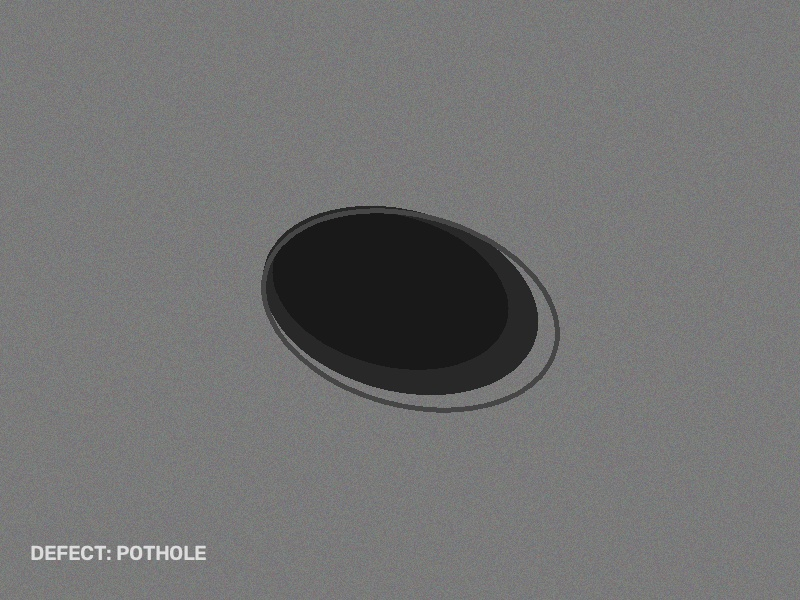
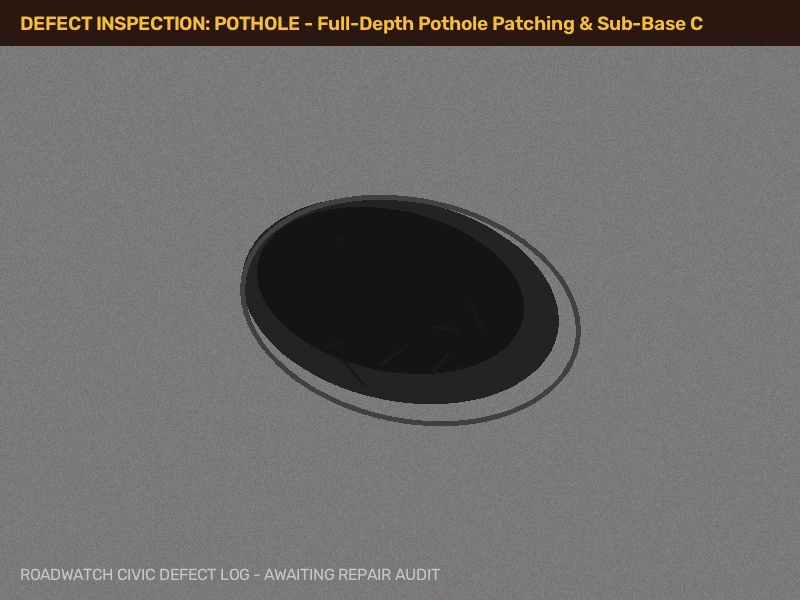
feat: seed realistic contractor repair completions for PWD Officer verification

diff --git a/backend/seed_repairs_for_verification.py b/backend/seed_repairs_for_verification.py
@@ -1,0 +1,391 @@
+"""
+Seed Repairs for Officer Verification
+Seeds high-quality contractor repair completions awaiting official P.W.D. Officer verification.
+"""
+import os
+import sys
+from pathlib import Path
+from datetime import datetime, timedelta
+import numpy as np
+import cv2
+
+# Set up Django environment
+sys.path.insert(0, str(Path(__file__).resolve().parent))
+os.environ.setdefault("DJANGO_SETTINGS_MODULE", "roadwatch.settings")
+
+import django
+django.setup()
+
+from django.conf import settings
+from apps.core.db import (
+    complaints_col, maintenance_tasks_col, repair_evidence_col,
+    status_history_col, users_col, organizations_col, roads_col,
+    jurisdictions_col, complaint_images_col, parse_object_id
+)
+from apps.ai_service.priority_engine import calculate_priority_score
+
+
+def generate_defect_image(filename: str, defect_type: str, title: str) -> str:
+    """Generates an image of a road defect."""
+    width, height = 800, 600
+    img = np.random.randint(110, 135, (height, width, 3), dtype=np.uint8)
+
+    folder_path = Path(settings.MEDIA_ROOT) / "complaints" / "seed"
+    folder_path.mkdir(parents=True, exist_ok=True)
+    target_path = folder_path / filename
+
+    if defect_type == "POTHOLE":
+        # Dark deep pothole cavity
+        cv2.ellipse(img, (400, 300), (160, 100), 12, 0, 360, (35, 35, 35), -1)
+        cv2.ellipse(img, (390, 290), (135, 80), 12, 0, 360, (20, 20, 20), -1)
+        cv2.ellipse(img, (410, 310), (170, 110), 12, 0, 360, (65, 65, 65), 3)
+        # Cracked debris around perimeter
+        for _ in range(8):
+            x1 = np.random.randint(300, 500)
+            y1 = np.random.randint(220, 380)
+            cv2.line(img, (x1, y1), (x1 + np.random.randint(-30, 30), y1 + np.random.randint(-30, 30)), (25, 25, 25), 2)
+    elif defect_type == "SUBSIDENCE":
+        # Sinking depression trench
+        cv2.ellipse(img, (400, 320), (280, 70), -5, 0, 360, (50, 50, 50), -1)
+        cv2.ellipse(img, (400, 320), (250, 50), -5, 0, 360, (30, 30, 30), -1)
+        cv2.line(img, (120, 310), (680, 310), (25, 25, 25), 4)
+    elif defect_type == "ALLIGATOR_CRACK":
+        # Heavy fatigue alligator cracks
+        for _ in range(35):
+            x1, y1 = np.random.randint(180, 620), np.random.randint(150, 450)
+            x2, y2 = x1 + np.random.randint(-50, 50), y1 + np.random.randint(-50, 50)
+            cv2.line(img, (x1, y1), (x2, y2), (28, 28, 28), 3)
+            # Connecting spiderweb lines
+            cv2.line(img, (x2, y2), (x2 + np.random.randint(-30, 30), y2 + np.random.randint(-30, 30)), (35, 35, 35), 2)
+    else:  # MANHOLE_DEFECT
+        # Sunken manhole rim
+        cv2.circle(img, (400, 300), 110, (40, 40, 40), -1)
+        cv2.circle(img, (400, 300), 95, (25, 25, 25), -1)
+        cv2.circle(img, (400, 300), 115, (75, 75, 75), 4)
+        # Manhole grate ribs
+        for angle in range(0, 180, 30):
+            rad = np.deg2rad(angle)
+            dx = int(80 * np.cos(rad))
+            dy = int(80 * np.sin(rad))
+            cv2.line(img, (400 - dx, 300 - dy), (400 + dx, 300 + dy), (55, 55, 55), 3)
+
+    # Defect badge header
+    cv2.rectangle(img, (0, 0), (800, 45), (15, 23, 42), -1)
+    cv2.putText(img, f"DEFECT INSPECTION: {defect_type} - {title[:40]}", (20, 30), cv2.FONT_HERSHEY_SIMPLEX, 0.65, (56, 189, 248), 2)
+    cv2.putText(img, "ROADWATCH CIVIC DEFECT LOG - AWAITING REPAIR AUDIT", (20, 580), cv2.FONT_HERSHEY_SIMPLEX, 0.55, (200, 200, 200), 1)
+
+    cv2.imwrite(str(target_path), img)
+    return f"complaints/seed/{filename}"
+
+
+def generate_repair_image(filename: str, defect_type: str, title: str) -> str:
+    """Generates an image of a completed road repair with fresh asphalt patch and compaction markings."""
+    width, height = 800, 600
+    img = np.random.randint(110, 135, (height, width, 3), dtype=np.uint8)
+
+    folder_path = Path(settings.MEDIA_ROOT) / "evidence" / "seed"
+    folder_path.mkdir(parents=True, exist_ok=True)
+    target_path = folder_path / filename
+
+    if defect_type == "POTHOLE":
+        # Fresh dark asphalt patch with clean saw-cut rectangular perimeter
+        cv2.rectangle(img, (220, 170), (580, 430), (45, 45, 45), -1)
+        # Sealant perimeter line
+        cv2.rectangle(img, (218, 168), (582, 432), (20, 20, 20), 3)
+        # Roller compaction marks
+        cv2.line(img, (240, 230), (560, 230), (52, 52, 52), 2)
+        cv2.line(img, (240, 300), (560, 300), (52, 52, 52), 2)
+        cv2.line(img, (240, 370), (560, 370), (52, 52, 52), 2)
+    elif defect_type == "SUBSIDENCE":
+        # Full-width highway asphalt overlay strip
+        cv2.rectangle(img, (60, 220), (740, 420), (42, 42, 42), -1)
+        cv2.rectangle(img, (58, 218), (742, 422), (18, 18, 18), 3)
+        # Center lane line re-applied
+        cv2.line(img, (200, 320), (280, 320), (255, 255, 255), 5)
+        cv2.line(img, (360, 320), (440, 320), (255, 255, 255), 5)
+        cv2.line(img, (520, 320), (600, 320), (255, 255, 255), 5)
+    elif defect_type == "ALLIGATOR_CRACK":
+        # Smooth resurfaced wearing course
+        cv2.rectangle(img, (120, 130), (680, 470), (46, 46, 46), -1)
+        cv2.rectangle(img, (118, 128), (682, 472), (22, 22, 22), 3)
+        # Fresh asphalt aggregate texture
+        for _ in range(80):
+            rx, ry = np.random.randint(140, 660), np.random.randint(150, 450)
+            cv2.circle(img, (rx, ry), 1, (65, 65, 65), -1)
+    else:  # MANHOLE_DEFECT
+        # Raised elevated manhole with clean circular concrete collar and flush asphalt ring
+        cv2.circle(img, (400, 300), 140, (48, 48, 48), -1)
+        cv2.circle(img, (400, 300), 125, (160, 160, 165), 8)  # Concrete collar
+        cv2.circle(img, (400, 300), 110, (30, 30, 30), -1)
+        cv2.circle(img, (400, 300), 95, (22, 22, 22), -1)
+        cv2.circle(img, (400, 300), 112, (15, 15, 15), 3)
+
+    # Completed repair badge header
+    cv2.rectangle(img, (0, 0), (800, 45), (6, 78, 59), -1)
+    cv2.putText(img, f"COMPLETED REPAIR: {defect_type} - {title[:40]}", (20, 30), cv2.FONT_HERSHEY_SIMPLEX, 0.65, (167, 243, 208), 2)
+    cv2.putText(img, "ROADWATCH OFFICIAL CONTRACTOR EVIDENCE - PENDING OFFICER VERIFICATION", (20, 580), cv2.FONT_HERSHEY_SIMPLEX, 0.55, (220, 255, 220), 1)
+
+    cv2.imwrite(str(target_path), img)
+    return f"evidence/seed/{filename}"
+
+
+def seed_repairs():
+    print("Seeding Repairs for Officer Verification...")
+    now = datetime.utcnow()
+
+    # Lookups
+    officer = users_col().find_one({"role": "AUTHORITY_OFFICER"})
+    if not officer:
+        print("Officer user not found. Please ensure users are seeded.")
+        return
+    officer_id = str(officer["_id"])
+    officer_name = officer.get("name", "Rajesh Kumar (P.W.D. Officer)")
+
+    contractor_user = users_col().find_one({"role": "CONTRACTOR_MANAGER"})
+    contractor_user_id = str(contractor_user["_id"]) if contractor_user else officer_id
+
+    citizen_user = users_col().find_one({"role": "CITIZEN"})
+    citizen_user_id = str(citizen_user["_id"]) if citizen_user else officer_id
+
+    contractor_org = organizations_col().find_one({"type": "CONTRACTOR"})
+    contractor_org_id = str(contractor_org["_id"]) if contractor_org else "CONTRACTOR_ORG_001"
+    contractor_name = contractor_org.get("name", "Apex Infra Roads & Civils Ltd.") if contractor_org else "Apex Infra Roads & Civils Ltd."
+
+    jurisdiction = jurisdictions_col().find_one({})
+    jurisdiction_id = str(jurisdiction["_id"]) if jurisdiction else "JURISDICTION_001"
+
+    roads = list(roads_col().find({}))
+    r1_id = str(roads[0]["_id"]) if len(roads) > 0 else "ROAD_001"
+    r2_id = str(roads[1]["_id"]) if len(roads) > 1 else r1_id
+    r3_id = str(roads[2]["_id"]) if len(roads) > 2 else r1_id
+
+    repairs_data = [
+        {
+            "task_ref": "WO-2026-A94101",
+            "complaint_ref": "RW-2026-100214",
+            "title": "Full-Depth Pothole Patching & Sub-Base Compaction",
+            "defect_type": "POTHOLE",
+            "road_id": r1_id,
+            "road_name": "Mahatma Gandhi Marg (Arterial)",
+            "instructions": "Milling of fractured asphalt edges, tack coat application with RS-1 bitumen, 50mm compacted WBM aggregate base, and hot-mix VG-30 wearing course.",
+            "work_notes": "Cavity milled to 85mm sound base, air-blast cleaned, applied RS-1 rapid setting emulsion tack coat at 0.35 kg/m2. Filled with 50mm compacted WBM aggregate base and 35mm hot-mix asphalt (VG-30). Compacted using 8-ton vibratory roller with 98.2% Marshall compaction density achieved. Transverse joints sealed with hot-poured elastomeric compound.",
+            "location_coords": [75.7682, 31.2241],
+            "location_str": "75.7682, 31.2241 (Central Ring Junction)",
+            "estimated_cost": 45000.0,
+            "actual_cost": 42000.0,
+            "hours_ago": 3,
+            "defect_img": "rw-2026-100214.jpg",
+            "repair_img": "repaired_100214.jpg",
+        },
+        {
+            "task_ref": "WO-2026-T82015",
+            "complaint_ref": "RW-2026-218491",
+            "title": "Trench Subsidence Re-excavation & Biaxial Geogrid Stabilization",
+            "defect_type": "SUBSIDENCE",
+            "road_id": r2_id,
+            "road_name": "Northern Bypass Ring Road (Expressway)",
+            "instructions": "Excavate settled utility trench section, install biaxial geogrid reinforcement sheet, place compacted stone aggregates in 60mm lifts, and pave 60mm dense bituminous macadam.",
+            "work_notes": "Excavated 180mm settled utility trench zone across 6-meter span. Laid high-strength biaxial geogrid reinforcement sheet, followed by 120mm graded crushed stone aggregate compacted in two 60mm lifts. Laid 60mm dense bituminous macadam surface course and machine-rolled flush with highway carriageway. Nuclear density gauge test confirmed 99.1% sub-base stability.",
+            "location_coords": [75.7820, 31.2385],
+            "location_str": "75.7820, 31.2385 (Bypass Mile Marker 14)",
+            "estimated_cost": 78000.0,
+            "actual_cost": 74500.0,
+            "hours_ago": 6,
+            "defect_img": "rw-2026-218491.jpg",
+            "repair_img": "repaired_218491.jpg",
+        },
+        {
+            "task_ref": "WO-2026-C61944",
+            "complaint_ref": "RW-2026-330582",
+            "title": "Cold Milling of Alligator Cracking Zone & SAMI Membrane Overlay",
+            "defect_type": "ALLIGATOR_CRACK",
+            "road_id": r3_id,
+            "road_name": "Station Approach Road (Collector)",
+            "instructions": "Cold mill top 45mm fractured fatigue cracks over 15x3m carriageway, apply stress absorbing membrane interlayer (SAMI), spray CSS-1h polymer emulsion, and overlay stone matrix asphalt.",
+            "work_notes": "Cold-milled 45mm fractured top asphalt course over 15x3m section. Installed Stress Absorbing Membrane Interlayer (SAMI) to arrest reflective cracking. Sprayed CSS-1h polymer emulsion and placed 45mm stone matrix asphalt (SMA-13) wearing course. Edge lines thermal-sealed to prevent water ingress. Friction test score: 68 BPN.",
+            "location_coords": [75.7595, 31.2180],
+            "location_str": "75.7595, 31.2180 (Near Terminal Cargo Gate)",
+            "estimated_cost": 92000.0,
+            "actual_cost": 89000.0,
+            "hours_ago": 12,
+            "defect_img": "rw-2026-330582.jpg",
+            "repair_img": "repaired_330582.jpg",
+        },
+        {
+            "task_ref": "WO-2026-M44129",
+            "complaint_ref": "RW-2026-419208",
+            "title": "Cast Iron Manhole Frame Elevation & M40 Concrete Collar",
+            "defect_type": "MANHOLE_DEFECT",
+            "road_id": r1_id,
+            "road_name": "Mahatma Gandhi Marg (Arterial)",
+            "instructions": "Hydraulically elevate sunken manhole frame to match highway crown, cast rapid-hardening M40 concrete structural collar, and pave perimeter with dense hot-mix bitumen.",
+            "work_notes": "Hydraulically elevated sunken manhole rim by 48mm to precisely match highway crown contour. Cast 200mm high-early-strength M40 rapid-hardening concrete collar around perimeter with rebar reinforcement. Surfaced surrounding zone with fine-graded hot-mix asphalt and sealed joint with rubberized bitumen mastic. Traffic reopened after 4 hours curing.",
+            "location_coords": [75.7640, 31.2215],
+            "location_str": "75.7640, 31.2215 (Opposite District Central Library)",
+            "estimated_cost": 38000.0,
+            "actual_cost": 36500.0,
+            "hours_ago": 18,
+            "defect_img": "rw-2026-419208.jpg",
+            "repair_img": "repaired_419208.jpg",
+        },
+    ]
+
+    seeded_tasks = []
+
+    for r in repairs_data:
+        # 1. Generate defect and repair sample images
+        rel_def_path = generate_defect_image(r["defect_img"], r["defect_type"], r["title"])
+        rel_rep_path = generate_repair_image(r["repair_img"], r["defect_type"], r["title"])
+
+        def_metadata = {
+            "url": f"/api/v1/media/{rel_def_path}",
+            "storage_path": rel_def_path,
+            "width": 800,
+            "height": 600,
+            "file_size": 185000,
+            "format": "JPEG",
+        }
+
+        rep_metadata = {
+            "url": f"/api/v1/media/{rel_rep_path}",
+            "storage_path": rel_rep_path,
+            "width": 800,
+            "height": 600,
+            "file_size": 178000,
+            "format": "JPEG",
+        }
+
+        c_time = now - timedelta(days=7, hours=r["hours_ago"])
+        submitted_at = now - timedelta(hours=r["hours_ago"])
+
+        # 2. Upsert Complaint in PENDING_VERIFICATION
+        existing_c = complaints_col().find_one({"public_reference": r["complaint_ref"]})
+        c_doc = {
+            "public_reference": r["complaint_ref"],
+            "reporter_id": citizen_user_id,
+            "road_id": r["road_id"],
+            "jurisdiction_id": jurisdiction_id,
+            "category": r["defect_type"],
+            "description": f"Road hazard at {r['road_name']}: {r['title']}. Requires urgent contractor repair.",
+            "location": {
+                "type": "Point",
+                "coordinates": r["location_coords"],
+            },
+            "citizen_severity": "CRITICAL" if r["defect_type"] in ("POTHOLE", "SUBSIDENCE") else "HIGH",
+            "authority_assessment": {
+                "decision": "APPROVED",
+                "severity": "CRITICAL" if r["defect_type"] in ("POTHOLE", "SUBSIDENCE") else "HIGH",
+                "category": r["defect_type"],
+                "reviewed_by": officer_id,
+                "reviewer_name": officer_name,
+                "reviewed_at": (c_time + timedelta(hours=4)).isoformat(),
+            },
+            "priority": {
+                "score": 82.5 if r["defect_type"] == "POTHOLE" else 76.0,
+                "band": "HIGH",
+                "is_emergency": r["defect_type"] == "POTHOLE",
+                "calculated_at": c_time.isoformat(),
+            },
+            "support_count": 9,
+            "status": "PENDING_VERIFICATION",
+            "visibility": "PUBLIC_SUMMARY",
+            "images": [def_metadata],
+            "created_at": c_time,
+            "updated_at": submitted_at,
+        }
+
+        if existing_c:
+            complaints_col().update_one({"_id": existing_c["_id"]}, {"$set": c_doc})
+            complaint_id = str(existing_c["_id"])
+        else:
+            res_c = complaints_col().insert_one(c_doc)
+            complaint_id = str(res_c.inserted_id)
+
+        # 3. Upsert Maintenance Task in COMPLETION_SUBMITTED
+        existing_t = maintenance_tasks_col().find_one({"task_reference": r["task_ref"]})
+        t_doc = {
+            "task_reference": r["task_ref"],
+            "complaint_id": complaint_id,
+            "complaint_reference": r["complaint_ref"],
+            "title": r["title"],
+            "instructions": r["instructions"],
+            "contractor_org_id": contractor_org_id,
+            "contractor_name": contractor_name,
+            "assigned_by": officer_id,
+            "status": "COMPLETION_SUBMITTED",
+            "deadline": now + timedelta(days=4),
+            "estimated_cost": r["estimated_cost"],
+            "actual_cost": r["actual_cost"],
+            "progress_percentage": 100,
+            "progress_logs": [
+                {
+                    "progress_percentage": 25,
+                    "note": "Work order mobilized. Area cordoned off with safety cones and warning boards.",
+                    "logged_by": contractor_user_id,
+                    "timestamp": (c_time + timedelta(days=2)).isoformat(),
+                },
+                {
+                    "progress_percentage": 70,
+                    "note": "Sub-base excavation and base compaction completed. Tack coat sprayed.",
+                    "logged_by": contractor_user_id,
+                    "timestamp": (c_time + timedelta(days=4)).isoformat(),
+                },
+                {
+                    "progress_percentage": 100,
+                    "note": r["work_notes"],
+                    "logged_by": contractor_user_id,
+                    "timestamp": submitted_at.isoformat(),
+                },
+            ],
+            "created_at": c_time + timedelta(days=1),
+            "completion_submitted_at": submitted_at,
+            "updated_at": submitted_at,
+        }
+
+        if existing_t:
+            maintenance_tasks_col().update_one({"_id": existing_t["_id"]}, {"$set": t_doc})
+            task_id = str(existing_t["_id"])
+        else:
+            res_t = maintenance_tasks_col().insert_one(t_doc)
+            task_id = str(res_t.inserted_id)
+
+        # 4. Upsert Repair Evidence
+        existing_ev = repair_evidence_col().find_one({"task_id": task_id})
+        ev_doc = {
+            "task_id": task_id,
+            "complaint_id": complaint_id,
+            "storage_path": rel_rep_path,
+            "file_metadata": rep_metadata,
+            "evidence_type": "AFTER_REPAIR_PHOTO",
+            "work_notes": r["work_notes"],
+            "location": r["location_str"],
+            "submitted_by": contractor_user_id,
+            "submitted_at": submitted_at,
+        }
+
+        if existing_ev:
+            repair_evidence_col().update_one({"_id": existing_ev["_id"]}, {"$set": ev_doc})
+        else:
+            repair_evidence_col().insert_one(ev_doc)
+
+        # 5. Insert Status History log
+        status_history_col().insert_one({
+            "entity_type": "maintenance_tasks",
+            "entity_id": task_id,
+            "previous_status": "IN_PROGRESS",
+            "new_status": "COMPLETION_SUBMITTED",
+            "actor_id": contractor_user_id,
+            "actor_name": "Vikram Malhotra (Contractor)",
+            "reason": "Submitted completion photos and density logs for official PWD verification.",
+            "timestamp": submitted_at,
+        })
+
+        seeded_tasks.append((r["task_ref"], r["complaint_ref"], r["title"], r["road_name"]))
+
+    print(f"Successfully seeded {len(seeded_tasks)} repairs for verification!")
+    for t_ref, c_ref, title, road in seeded_tasks:
+        print(f"  - [{t_ref}] Linked to {c_ref} on {road}: {title}")
+
+
+if __name__ == "__main__":
+    seed_repairs()
